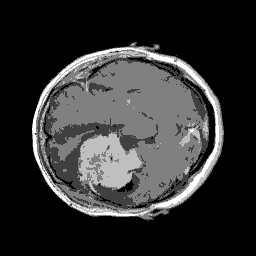
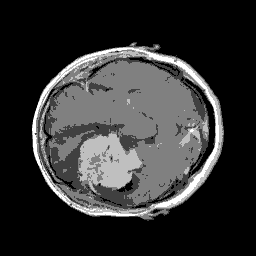
fix: segmentar asigna el pixel igual al umbral a la clase superior, como fTerm

diff --git a/src/lib/img.cpp b/src/lib/img.cpp
@@ -97,9 +97,10 @@ Segmentacion segmentar(const cv::Mat &imagen, const vector<int> &umbrales) {
 	validarUmbrales(umbrales);
 	array<unsigned char, 256> etiquetas{}, tonos{};
 	for (int g = 0; g < 256; ++g) {
-		// Un pixel igual al umbral pertenece a la clase inferior.
+		// Clases [t_j, t_{j+1}), como en otsu::fTerm: un pixel igual al
+		// umbral t_j pertenece a la clase j (la superior).
 		auto clase =
-			lower_bound(umbrales.begin(), umbrales.end(), g) - umbrales.begin();
+			upper_bound(umbrales.begin(), umbrales.end(), g) - umbrales.begin();
 		etiquetas[g] = static_cast<unsigned char>(clase);
 		tonos[g] = static_cast<unsigned char>(
 			cvRound(255.0 * clase / umbrales.size()));
